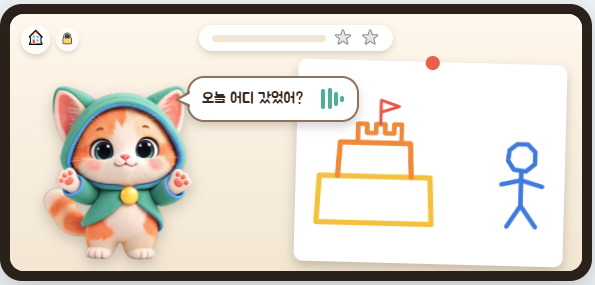
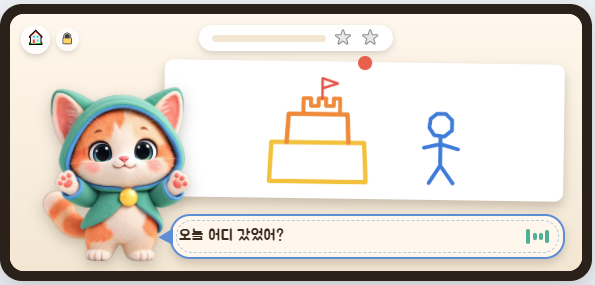
docs: D3 bubble back at the bottom, pinned drawing spans from Otto to the edge
Claude-Session: https://claude.ai/code/session_01SjSBQ7DtDnJYD2PENH3ma9

diff --git a/docs/일기모드_UI.html b/docs/일기모드_UI.html
@@ -62,13 +62,13 @@ button:focus-visible{outline:2px solid var(--accent);outline-offset:2px}
 /* D3: Otto beside the page, the line in a speech bubble (placeholder — later Otto lies down drawing / writing) */
 .d3-otto{position:absolute;left:2cqw;bottom:0;height:33cqw;filter:drop-shadow(0 1cqw 1.2cqw rgba(58,42,32,.25));transform-origin:50% 100%;animation:bob 2.6s ease-in-out infinite;pointer-events:none}
 .d3-otto.hop{animation:hop .45s ease-out}
-.frame.asking .band{left:31cqw;right:auto;top:11cqw;bottom:auto;width:30cqw;min-height:0;background:#fff;border:.4cqw solid var(--app-ink-soft);border-radius:3cqw;padding:1.6cqw 2.2cqw;box-shadow:0 .8cqw 1.6cqw rgba(58,42,32,.2);animation:pop .3s ease-out}
-.frame.asking .band::after{inset:auto;left:-2.5cqw;top:50%;width:2.6cqw;height:3cqw;margin-top:-1.5cqw;border:none;border-radius:0;background:var(--app-ink-soft);clip-path:polygon(100% 0,0 55%,100% 100%)}
-.frame.asking .band::before{content:"";position:absolute;left:-1.8cqw;top:50%;width:2.2cqw;height:2.2cqw;margin-top:-1.1cqw;background:#fff;clip-path:polygon(100% 0,0 55%,100% 100%);z-index:1}
+.frame.asking .band{left:28cqw;right:3cqw;bottom:2cqw;min-height:8cqw;animation:pop .3s ease-out}
+.frame.asking .band::before{content:"";position:absolute;left:-2.4cqw;top:50%;width:2.6cqw;height:3cqw;margin-top:-1.5cqw;background:var(--sky);clip-path:polygon(100% 0,0 55%,100% 100%)}
 .frame.asking .band .face{display:none}
-.frame.asking .band .line{font-size:2.6cqw}
-.frame.asking .echo{display:none}
-.frame.asking .page-card{padding:2cqw}   /* Otto's bubble already says it */
+.frame.asking .band .line{font-size:2.7cqw}
+.frame.asking .echo{display:none}   /* Otto's bubble already says it */
+.frame.asking .page-card{left:27cqw;right:3cqw;top:8.5cqw;bottom:12.5cqw;width:auto;aspect-ratio:auto;padding:1.4cqw;transform:rotate(.8deg)}   /* fills the space between Otto and the right edge */
+.frame.asking .page-card img{position:absolute;left:1.4cqw;top:1.4cqw;width:calc(100% - 2.8cqw);height:calc(100% - 2.8cqw)}
 /* narration band */
 .frame.drawing .band{left:1.2cqw;right:auto;bottom:1.2cqw;max-width:62cqw;min-height:0;gap:1.2cqw;padding:.6cqw 2cqw .6cqw .6cqw;border-width:.4cqw;border-radius:4cqw;cursor:pointer;transition:max-width .35s ease, padding .35s ease, opacity .35s ease;overflow:hidden}
 .frame.drawing .band .face{width:5.4cqw;height:5.4cqw;border-width:.4cqw}

diff --git a/docs/review/일기모드_0929/README.md b/docs/review/일기모드_0929/README.md
@@ -55,7 +55,7 @@
 | `52_연기_음영_맨앞` | 연기 구름에 **음영**(흰 윗면 → 따뜻한 회색 아랫면, 안쪽 그림자)을 넣어 흰 화이트보드 위에서도 보인다. **연기가 그림보다 앞**에 온다 |
 | `53_몽글연기_터짐` ~ `55_몽글연기_줄어들며_사라짐` | 동그라미 연기를 **만화 연기 구름**으로: 둥근 덩어리 여러 개가 붙은 모양 · 갈색 테두리 하나 · 왼쪽 위는 밝고 아래는 그늘 · 반짝 하이라이트. 날아가는 동안 **몽글몽글 끓듯이** 흔들리고, 흐려지는 대신 **작아지며 사라진다**. 가운데 큰 구름 하나 + 둘레 12개, 모양 5가지 |
 | `56_D3_오또_말풍선_듣기` · `57_D3_다음질문` | 다 그린 뒤 빈 칸 묻기(D3): 왼쪽 나레이션 칸 대신 **오또 전신 + 말풍선**. 물을 때는 `listen` 자세, 되받을 때는 `talk` 자세로 바뀌며 통 뛴다. 오른쪽은 아이 그림 카드. ⚠ **임시 자세** — 나중에 엎드려 그림 그리는 · 일기 쓰는 오또로 바꾼다 |
-| `58_D3_그림카드_크게` | 핀 꽂힌 그림 카드를 크게(가로 28 → 47) — 말풍선과 조금 겹쳐도 된다. 카드 속 그림은 **그린 부분만 딱 맞게** 잘라 카드를 채운다 |
+| `58_D3_그림카드_크게` · `59_D3_되받기_talk자세` | 말풍선은 **아래쪽 띠**(예전 나레이션 칸 모양)로, 꼬리가 오또를 가리킨다. 핀 꽂힌 그림 카드는 **오또 바로 옆부터 오른쪽 끝까지** 채운다. 카드 속 그림은 그린 부분만 잘라 꽉 차게 |
 | `47_D5_그림칸_맞춤` | 화이트보드가 3:1보다 높아져서, 그림일기의 3:1 그림 칸에는 **그린 부분만 잘라 같은 비율로** 맞춰 넣는다(찌그러짐 없음). 퍼즐 · 표지도 같은 방식 |
 | `참고_자동입력_글자깨짐` | 자동 입력 도구가 긴 한글을 망가뜨린 경우("쩩쩩", "뛰"에서 끊김). **앱 문제 아님**. 이후 대답은 입력 칸에 값을 넣는 방식으로 진행 |
 
